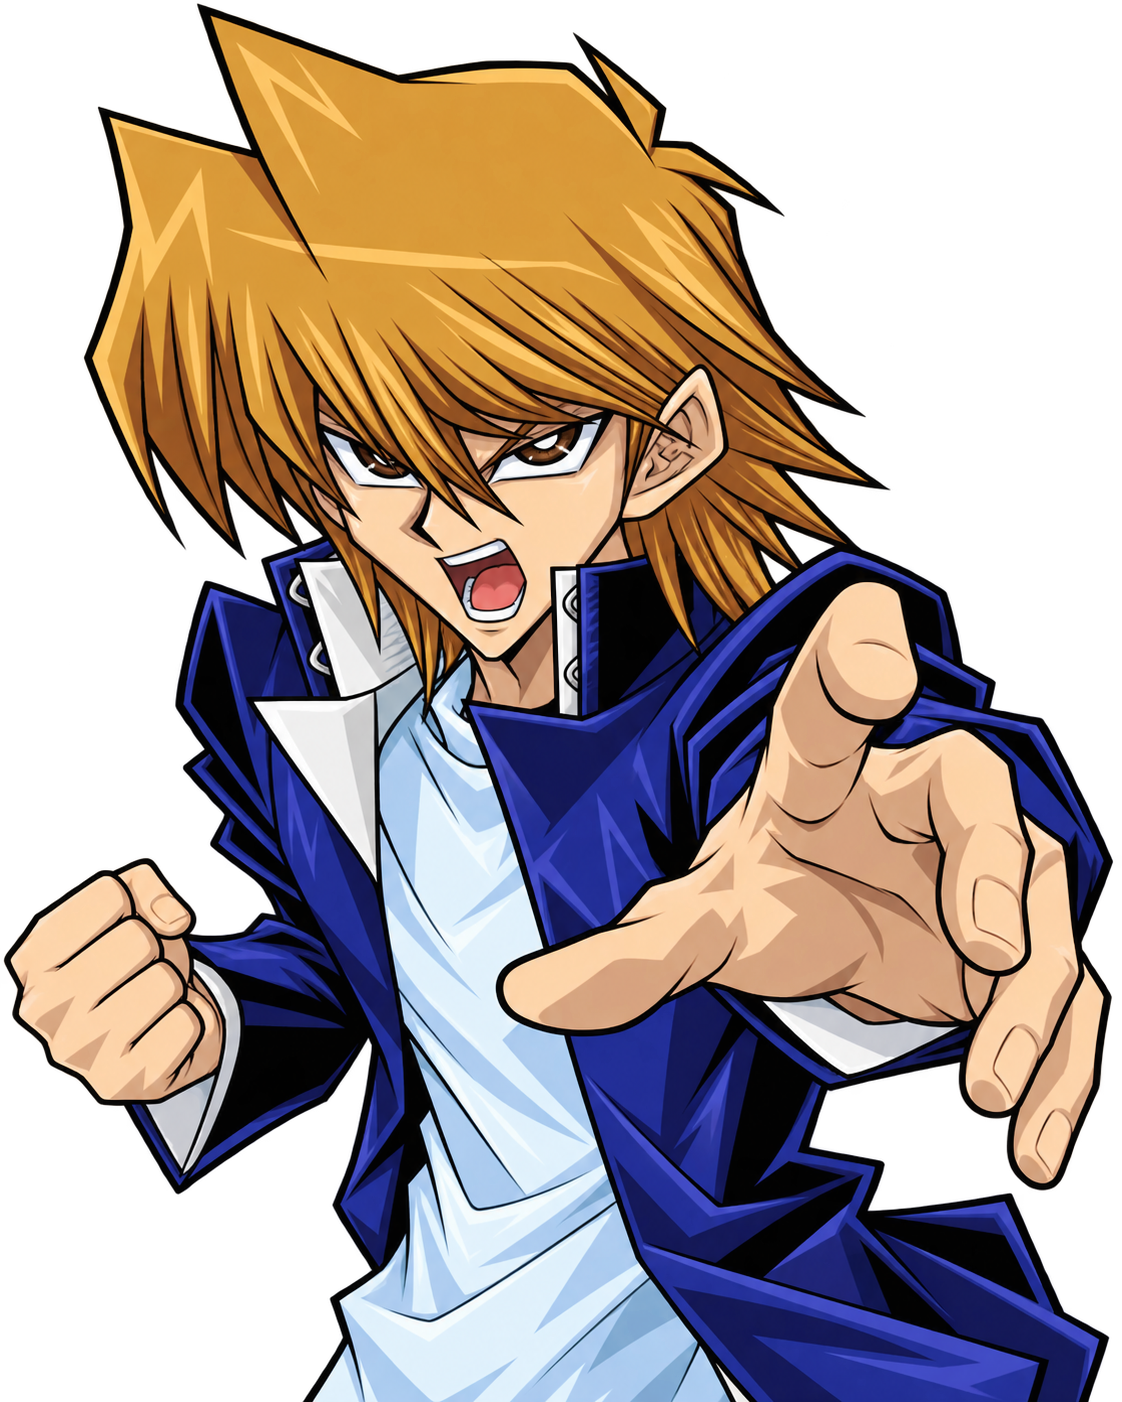
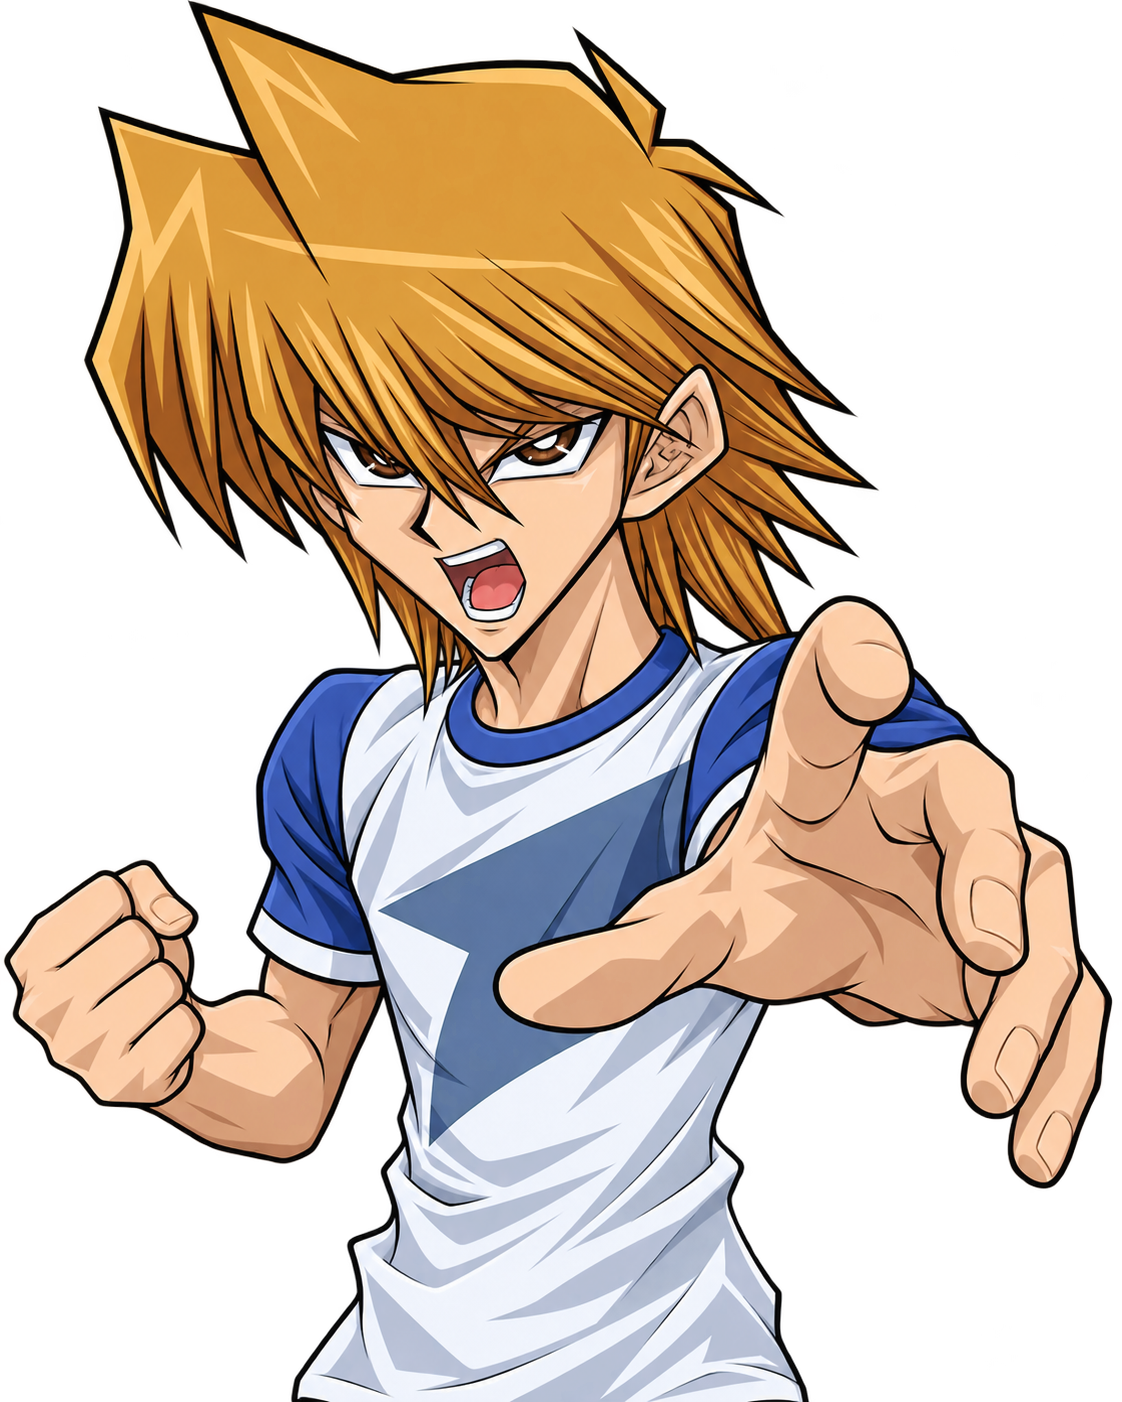
Rinnova le figure di Joey Wheeler (1.5.57)
Suite completa non eseguita.

diff --git a/js/version.js b/js/version.js
@@ -32,6 +32,7 @@
  * in avanti si incrementa DAVVERO ad ogni sessione con cambiamenti
  * visibili, e l'elenco qui sotto tiene traccia di cosa c'è dentro.
  *
+ * 1.5.57 — Joey Wheeler indossa la sua maglietta bianca e blu caratteristica nelle figure trasparenti normale, pedina e grido.
  * 1.5.56 — Incrocio di Anime conserva video e grido dell'Evocazione divina; le Magie dalla mano volano al Cimitero dopo la risoluzione; corrette le linee del Castello di Pegasus e uniformate le icone di Cartoteca/configurazione duello.
  * 1.5.55 — Tornei senza icona avatar; Regno dei Duellanti con preparazione mazzo/difficolta' leggibile, safe area per fotocamere/notch e mappa esterna di boschi e radure piu' profonda e integrata.
  * 1.5.54 — Battle City torna fedele all'anime: otto finalisti e soli quarti sul dirigibile; i vecchi salvataggi a 32 vengono migrati senza azzerare il torneo.
@@ -791,4 +792,4 @@
  *   torneo paga solo la propria valuta; niente più stiramento elastico
  *   a fine scroll su nessuna pagina.
  */
-window.GAME_VERSION = '1.5.56';
+window.GAME_VERSION = '1.5.57';

diff --git a/sw.js b/sw.js
@@ -526,7 +526,7 @@
 // v562: Continua elimina dalla cronologia il duello appena concluso.
 // v564: Battle City canonica (otto finalisti, soli quarti sul dirigibile).
 // v565: preparazione e mappa esterna del torneo Regno dei Duellanti rinnovate.
-const CACHE_NAME = 'ygo-duel-arena-v566';
+const CACHE_NAME = 'ygo-duel-arena-v567';
 
 // L'intera "app shell": tutte le pagine HTML + tutto il codice JS/CSS che
 // le fa funzionare. Leggero (pochi MB in tutto), quindi si può precaricare
